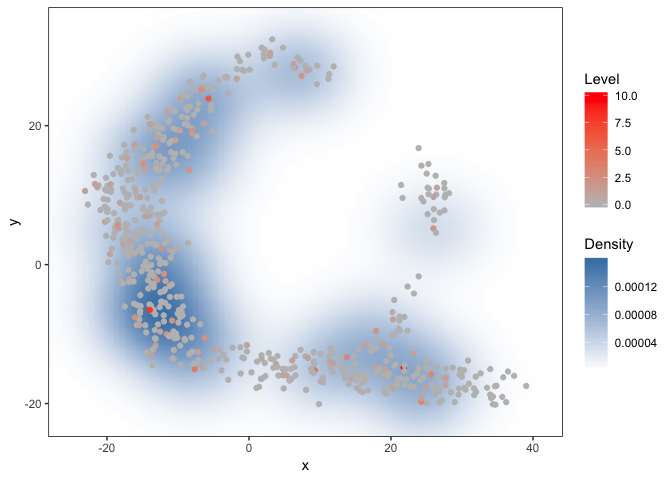
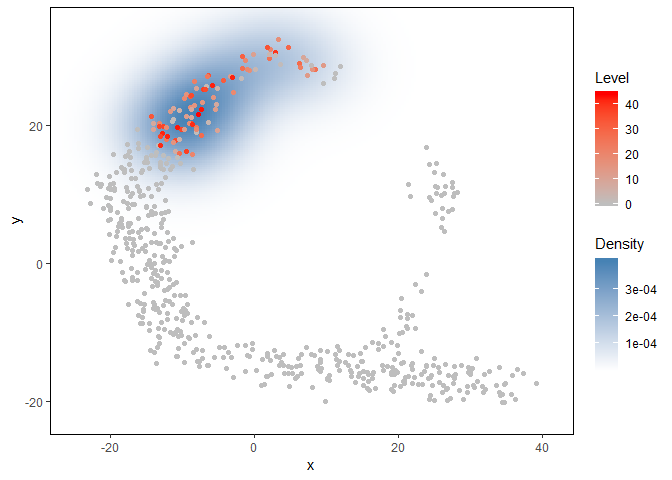
Update README and figures.

diff --git a/README.md b/README.md
@@ -1,40 +1,34 @@
 
 <!-- README.md is generated from README.Rmd. Please edit that file -->
+singleCellHaystack
+==================
 
-# singleCellHaystack
+'singleCellHaystack' is a package for finding surprising needles (=genes) in haystacks (=2D representations of single cell transcriptome data). Single-cell RNA-seq (scRNA-seq) data is often represented in 2-dimentional plots (e.g. plots of two principal components, or t-SNE plots). 'singleCellHaystack' can be used for finding genes that are expressed in subsets of cells that are non-randomly distributed in this 2D representation.
 
-The goal of singleCellHaystack is to …
+Installation
+------------
 
-## Installation
+<!-- You can install the released version of singleCellHaystack from [CRAN](https://CRAN.R-project.org) with: -->
+<!-- ``` r -->
+<!-- install.packages("singleCellHaystack") -->
+<!-- ``` -->
+You can install the 'singleCellHaystack' from the GitHub repository as follows:
 
-You can install the released version of singleCellHaystack from
-[CRAN](https://CRAN.R-project.org) with:
+Introduction
+------------
 
 ``` r
-install.packages("singleCellHaystack")
+remotes::install_github("alexisvdb/singleCellHaystack")
 ```
 
-## Introduction
+Example usage
+-------------
 
-‘haystack’ is a package for finding surprising needles (=genes) in
-haystacks (=2D representations of single cell transcriptome data).
-Single-cell RNA-seq (scRNA-seq) data is often represented in
-2-dimentional plots (e.g. plots of two principal components, or t-SNE
-plots). ‘haystack’ can be used for finding genes that are expressed in
-subsets of cells that are non-randomly distributed in this 2D
-representation.
+A small toy dataset is included in the package. The toy dataset includes:
 
-## Example usage
+-   'dat.expression': scRNA-seq expression of genes (rows) in cells (columns)
 
-A small toy dataset is included in the package. The toy dataset
-includes:
-
-  - ‘dat.expression’: scRNA-seq expression of genes (rows) in cells
-    (columns)
-
-  - ‘dat.tsne’: a 2D representation of the cell in dat.expression
-
-<!-- end list -->
+-   'dat.tsne': a 2D representation of the cell in dat.expression
 
 ``` r
 library(singleCellHaystack)
@@ -58,28 +52,27 @@ res <- haystack(x=dat.tsne$tSNE1, y=dat.tsne$tSNE2, detection=dat.detection)
 # the returned results 'res' is of class 'haystack'
 class(res)
 #> [1] "haystack"
-## [1] "haystack"
 
 # show top 10 "surprising" genes
 show_result_haystack(res.haystack = res, n=10)
 #>              D_KL log.p.vals T.counts
-#> gene_497 1.599646  -23.96215       86
-#> gene_62  1.519993  -23.34565       81
-#> gene_61  1.470475  -22.69847       80
-#> gene_339 1.414814  -22.03340       87
-#> gene_79  1.929800  -21.34321       68
-#> gene_351 1.408946  -21.30571       89
-#> gene_444 1.435882  -20.79259       75
-#> gene_137 1.349994  -20.75643       89
-#> gene_313 1.294544  -20.45329       78
-#> gene_325 1.209385  -20.37269       84
+#> gene_497 1.599646  -21.54038       86
+#> gene_317 1.386194  -20.60853       94
+#> gene_242 1.360661  -20.42848       96
+#> gene_351 1.408946  -20.38033       89
+#> gene_275 1.345251  -20.27026       95
+#> gene_339 1.414814  -20.15582       87
+#> gene_62  1.519993  -19.94011       81
+#> gene_137 1.349994  -19.85072       89
+#> gene_79  1.929800  -19.69907       68
+#> gene_61  1.470475  -19.32448       80
 
 # alternatively: use a p-value threshold
 #show_result_haystack(res.haystack = res, p.value.threshold = 1e-10)
 
 # visualize one of the surprizing genes
 plot_gene_haystack(x=dat.tsne$tSNE1, y=dat.tsne$tSNE2, expression=dat.expression, 
-                      gene="gene_11", detection = dat.detection, high.resolution = TRUE)
+                      gene="gene_497", detection = dat.detection, high.resolution = TRUE)
 ```
 
 <img src="man/figures/README-example-1.png" width="100%" />
